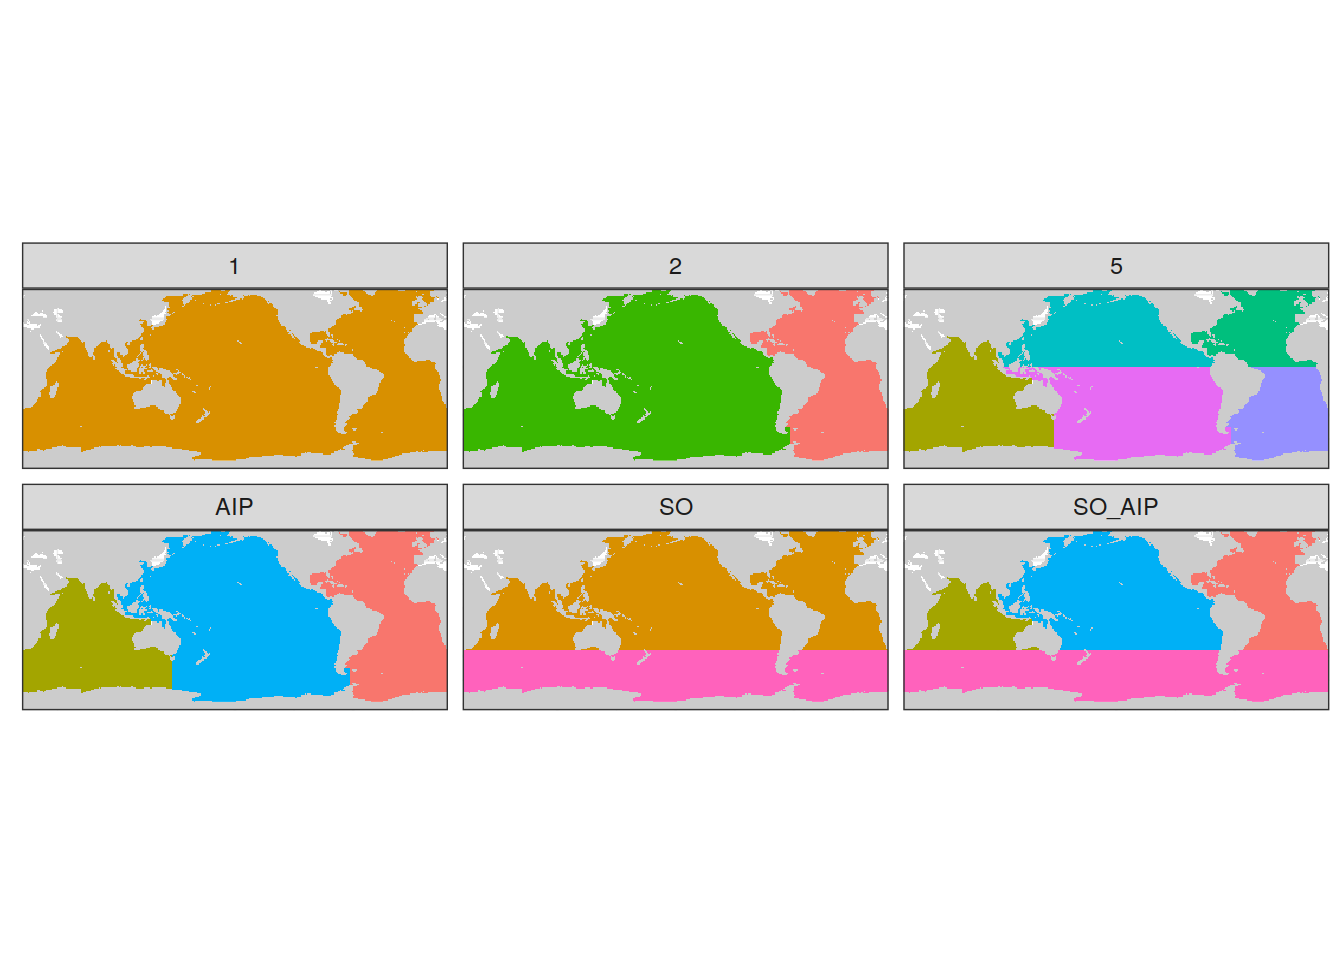
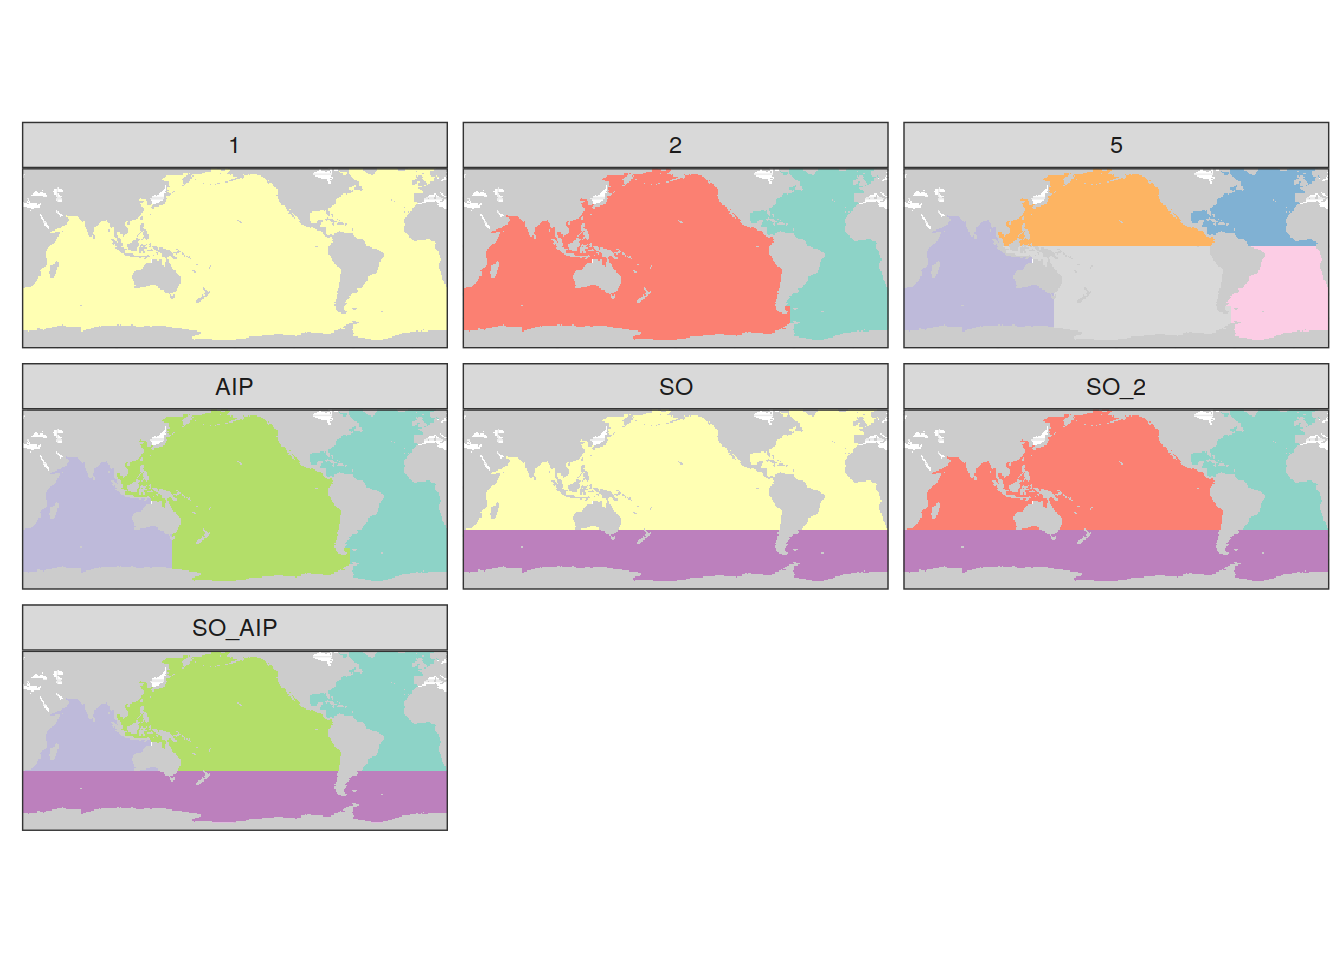
Build site.

diff --git a/docs/basics.html b/docs/basics.html
@@ -610,16 +610,16 @@ This reproducible <a href="http://rmarkdown.rstudio.com">R Markdown</a> analysis
 <div class="panel panel-default">
 <div class="panel-heading">
 <p class="panel-title">
-<a data-toggle="collapse" data-parent="#workflowr-checks" href="#strongRepositoryversionstrongahrefhttpsgithubcomjensdanielmuelleremlrobsanalysistree7c7b6ef01598f25fc3f063ee99446e0beb3d5babtargetblank7c7b6efa"> <span class="glyphicon glyphicon-ok text-success" aria-hidden="true"></span> <strong>Repository version:</strong> <a href="https://github.com/jens-daniel-mueller/emlr_obs_analysis/tree/7c7b6ef01598f25fc3f063ee99446e0beb3d5bab" target="_blank">7c7b6ef</a> </a>
+<a data-toggle="collapse" data-parent="#workflowr-checks" href="#strongRepositoryversionstrongahrefhttpsgithubcomjensdanielmuelleremlrobsanalysistreec5eb52136edb93ebcf9d7723276d89d312929bdctargetblankc5eb521a"> <span class="glyphicon glyphicon-ok text-success" aria-hidden="true"></span> <strong>Repository version:</strong> <a href="https://github.com/jens-daniel-mueller/emlr_obs_analysis/tree/c5eb52136edb93ebcf9d7723276d89d312929bdc" target="_blank">c5eb521</a> </a>
 </p>
 </div>
[2 lines of base64/hex data omitted]
 <div class="panel-body">
 <p>
 Great! You are using Git for version control. Tracking code development and connecting the code version to the results is critical for reproducibility.
 </p>
 <p>
-The results in this page were generated with repository version <a href="https://github.com/jens-daniel-mueller/emlr_obs_analysis/tree/7c7b6ef01598f25fc3f063ee99446e0beb3d5bab" target="_blank">7c7b6ef</a>. See the <em>Past versions</em> tab to see a history of the changes made to the R Markdown and HTML files.
+The results in this page were generated with repository version <a href="https://github.com/jens-daniel-mueller/emlr_obs_analysis/tree/c5eb52136edb93ebcf9d7723276d89d312929bdc" target="_blank">c5eb521</a>. See the <em>Past versions</em> tab to see a history of the changes made to the R Markdown and HTML files.
 </p>
 <p>
 Note that you need to be careful to ensure that all relevant files for the analysis have been committed to Git prior to generating the results (you can use <code>wflow_publish</code> or <code>wflow_git_commit</code>). workflowr only checks the R Markdown file, but you know if there are other scripts or data files that it depends on. Below is the status of the Git repository when the results were generated:
@@ -634,10 +634,6 @@ Ignored files:
 
 Untracked files:
     Untracked:  code/classic_slab_inventories.Rmd
-
-Unstaged changes:
-    Modified:   analysis/_site.yml
-    Modified:   code/Workflowr_project_managment.R
 
 </code></pre>
 <p>
@@ -676,6 +672,40 @@ Message
 </tr>
 </thead>
 <tbody>
+<tr>
+<td>
+Rmd
+</td>
+<td>
+<a href="https://github.com/jens-daniel-mueller/emlr_obs_analysis/blob/c5eb52136edb93ebcf9d7723276d89d312929bdc/analysis/basics.Rmd" target="_blank">c5eb521</a>
+</td>
+<td>
+jens-daniel-mueller
+</td>
+<td>
+2021-09-29
+</td>
+<td>
+coverage maps added
+</td>
+</tr>
+<tr>
+<td>
+html
+</td>
+<td>
+<a href="https://rawcdn.githack.com/jens-daniel-mueller/emlr_obs_analysis/960d1588ac630a8cb976434900f87e2f256a9d2c/docs/basics.html" target="_blank">960d158</a>
+</td>
+<td>
+jens-daniel-mueller
+</td>
+<td>
+2021-09-29
+</td>
+<td>
+Build site.
+</td>
+</tr>
 <tr>
 <td>
 html
@@ -919,13 +949,16 @@ ggsave(plot = p_time_histo_all,
 </div>
 <div id="time-series-histogram-1" class="section level1" number="3">
 <h1 number="3"><span class="header-section-number">3</span> Time series histogram</h1>
-<pre class="r"><code>MLR_basins_in &lt;- c(&quot;1&quot;, &quot;2&quot;, &quot;AIP&quot;, &quot;SO&quot;, &quot;5&quot;, &quot;SO_AIP&quot;)
+<pre class="r"><code>MLR_basins_in &lt;- c(&quot;1&quot;, &quot;2&quot;, &quot;AIP&quot;, &quot;SO_2&quot;, &quot;5&quot;, &quot;SO_AIP&quot;, &quot;SO&quot;)
+
+# basinmask$group_id &lt;- 
+# basinmask %&gt;% group_indices(MLR_basins, basin)
 
 basin_maps &lt;-
   map +
   geom_raster(data = basinmask %&gt;%  filter(MLR_basins %in% MLR_basins_in),
               aes(lon, lat, fill = basin)) +
-  scale_fill_discrete(guide = &quot;none&quot;) +
+  scale_fill_brewer(palette = &quot;Set3&quot;, guide = &quot;none&quot;) +
   facet_wrap( ~ MLR_basins) +
   theme(axis.text = element_blank(),
         axis.ticks = element_blank())
@@ -974,6 +1007,36 @@ jens-daniel-mueller
        filename = &quot;basin_maps.png&quot;,
        height = 5,
        width = 10)</code></pre>
+</div>
+<div id="coverage-maps" class="section level1" number="4">
+<h1 number="4"><span class="header-section-number">4</span> coverage maps</h1>
+<pre class="r"><code>GLODAP_era_grid &lt;- GLODAP_preprocessed %&gt;% 
+  mutate(era = cut(year,
+                   seq(1990, 2020, 10),
+                   labels = c(&quot;1990 - 1999&quot;, &quot;2000 - 2009&quot;, &quot;2010 - 2019&quot;),
+                   right = FALSE)) %&gt;% 
+  group_by(lon, lat, era) %&gt;% 
+  summarise(year_max = max(year),
+            year_min = min(year)) %&gt;% 
+  ungroup() %&gt;% 
+  drop_na()
+
+coverage_map &lt;-
+  map +
+  geom_raster(data = GLODAP_era_grid,
+              aes(lon, lat)) +
+  scale_fill_viridis_c() +
+  facet_grid(. ~ era) +
+  theme(axis.text = element_blank(),
+        axis.ticks = element_blank())
+
+coverage_map</code></pre>
+<p><img src="figure/basics.Rmd/coverage_maps-1.png" width="672" style="display: block; margin: auto;" /></p>
+<pre class="r"><code>ggsave(plot = coverage_map,
+       path = &quot;output/publication&quot;,
+       filename = &quot;coverage_map.png&quot;,
+       height = 2,
+       width = 8)</code></pre>
 <br>
 <p>
 <button type="button" class="btn btn-default btn-workflowr btn-workflowr-sessioninfo" data-toggle="collapse" data-target="#workflowr-sessioninfo" style="display: block;">
@@ -1008,31 +1071,31 @@ other attached packages:
 [13] ggplot2_3.3.5   tidyverse_1.3.0 workflowr_1.6.2
 
 loaded via a namespace (and not attached):
- [1] httr_1.4.2               sass_0.4.0               jsonlite_1.7.1          
- [4] modelr_0.1.8             bslib_0.2.5.1            assertthat_0.2.1        
- [7] highr_0.8                blob_1.2.1               cellranger_1.1.0        
-[10] yaml_2.2.1               pillar_1.6.2             backports_1.1.10        
-[13] lattice_0.20-41          glue_1.4.2               RcppEigen_0.3.3.7.0     
-[16] digest_0.6.27            RColorBrewer_1.1-2       promises_1.1.1          
-[19] polyclip_1.10-0          checkmate_2.0.0          rvest_0.3.6             
-[22] colorspace_2.0-2         htmltools_0.5.1.1        httpuv_1.5.4            
-[25] Matrix_1.2-18            pkgconfig_2.0.3          broom_0.7.9             
-[28] haven_2.3.1              scales_1.1.1             tweenr_1.0.2            
-[31] whisker_0.4              later_1.2.0              git2r_0.27.1            
-[34] farver_2.0.3             generics_0.1.0           ellipsis_0.3.2          
-[37] withr_2.3.0              cli_3.0.1                magrittr_1.5            
-[40] crayon_1.3.4             readxl_1.3.1             evaluate_0.14           
-[43] fs_1.5.0                 fansi_0.4.1              MASS_7.3-53             
-[46] xml2_1.3.2               RcppArmadillo_0.10.1.2.0 tools_4.0.3             
-[49] data.table_1.14.0        hms_0.5.3                lifecycle_1.0.0         
-[52] munsell_0.5.0            reprex_0.3.0             compiler_4.0.3          
-[55] jquerylib_0.1.4          rlang_0.4.11             grid_4.0.3              
-[58] rstudioapi_0.13          labeling_0.4.2           rmarkdown_2.10          
-[61] gtable_0.3.0             DBI_1.1.0                R6_2.5.0                
-[64] lubridate_1.7.9          knitr_1.33               utf8_1.1.4              
-[67] rprojroot_2.0.2          stringi_1.5.3            parallel_4.0.3          
-[70] Rcpp_1.0.5               vctrs_0.3.8              dbplyr_1.4.4            
-[73] tidyselect_1.1.0         xfun_0.25               </code></pre>
+ [1] httr_1.4.2               sass_0.4.0               viridisLite_0.3.0       
+ [4] jsonlite_1.7.1           modelr_0.1.8             bslib_0.2.5.1           
+ [7] assertthat_0.2.1         highr_0.8                blob_1.2.1              
+[10] cellranger_1.1.0         yaml_2.2.1               pillar_1.6.2            
+[13] backports_1.1.10         lattice_0.20-41          glue_1.4.2              
+[16] RcppEigen_0.3.3.7.0      digest_0.6.27            RColorBrewer_1.1-2      
+[19] promises_1.1.1           polyclip_1.10-0          checkmate_2.0.0         
+[22] rvest_0.3.6              colorspace_2.0-2         htmltools_0.5.1.1       
+[25] httpuv_1.5.4             Matrix_1.2-18            pkgconfig_2.0.3         
+[28] broom_0.7.9              haven_2.3.1              scales_1.1.1            
+[31] tweenr_1.0.2             whisker_0.4              later_1.2.0             
+[34] git2r_0.27.1             farver_2.0.3             generics_0.1.0          
+[37] ellipsis_0.3.2           withr_2.3.0              cli_3.0.1               
+[40] magrittr_1.5             crayon_1.3.4             readxl_1.3.1            
+[43] evaluate_0.14            fs_1.5.0                 fansi_0.4.1             
+[46] MASS_7.3-53              xml2_1.3.2               RcppArmadillo_0.10.1.2.0
+[49] tools_4.0.3              data.table_1.14.0        hms_0.5.3               
+[52] lifecycle_1.0.0          munsell_0.5.0            reprex_0.3.0            
+[55] compiler_4.0.3           jquerylib_0.1.4          rlang_0.4.11            
+[58] grid_4.0.3               rstudioapi_0.13          labeling_0.4.2          
+[61] rmarkdown_2.10           gtable_0.3.0             DBI_1.1.0               
+[64] R6_2.5.0                 lubridate_1.7.9          knitr_1.33              
+[67] utf8_1.1.4               rprojroot_2.0.2          stringi_1.5.3           
+[70] parallel_4.0.3           Rcpp_1.0.5               vctrs_0.3.8             
+[73] dbplyr_1.4.4             tidyselect_1.1.0         xfun_0.25               </code></pre>
 </div>
 </div>
 
